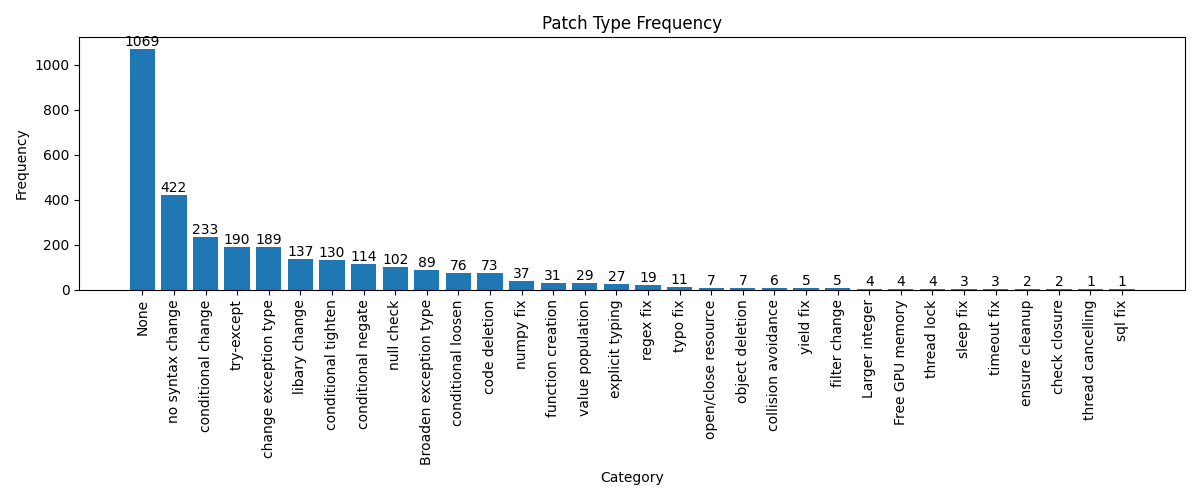
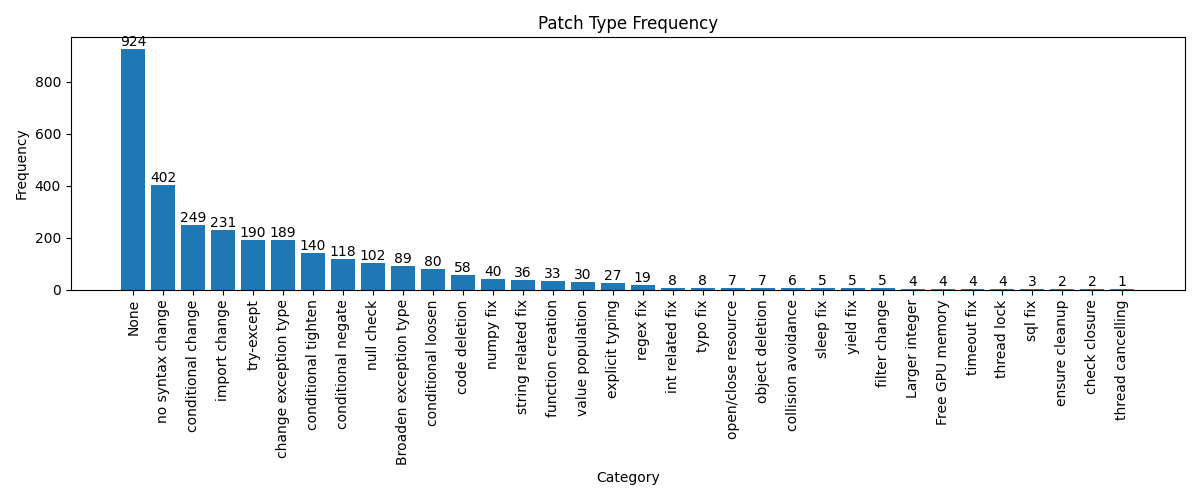
plz

diff --git a/src/main.py b/src/main.py
@@ -285,10 +285,6 @@ def helper_boolean(token_changes: list[str], commit_msg: str):
         if "Exception" in key and diffs.get(key,0) > 0:
             return "Broaden exception type"
 
-    ## scoping change
-    if diffs.get("import",0) > 0:
-        return "libary change"
-
     ## thread cancelling
     if diffs.get("cancel",0) > 0:
         return "thread cancelling"
@@ -345,10 +341,22 @@ def helper_boolean(token_changes: list[str], commit_msg: str):
     if diffs.get("time",0) != 0 and diffs.get("sleep",0) != 0:
         return "sleep fix"
     
+        ## if time.sleep is used to fix race
+    if diffs.get("str",0) != 0:
+        return "string related fix"
+    
     ## if timeout is used, most likely race condition
     if diffs.get("timeout",0) != 0:
         return "timeout fix"
     
+    if adds.get("import",0) > 0 or dels.get("import",0) > 0:
+        return "import change"
+    if diffs.get("as",0) > 0 and diffs.get("with",0) > 0:
+        return "import change"
+
+    if diffs.get("int",0) > 0:
+        return "int related fix" 
+
     ## if yield fix race
     if diffs.get("yield",0) != 0:
         return "yield fix"
